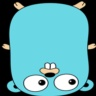
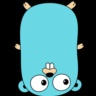
keep aspect ratio in images

diff --git a/deck_test.go b/deck_test.go
@@ -582,8 +582,7 @@ var setImageTests = []struct {
 		wantHeaders: [][]byte{
 			{0x2, 0x7, devices[StreamDeckOriginalV2].key(1, 2), 0x0, 0xf8, 0x3, 0x0, 0x0},
 			{0x2, 0x7, devices[StreamDeckOriginalV2].key(1, 2), 0x0, 0xf8, 0x3, 0x1, 0x0},
-			{0x2, 0x7, devices[StreamDeckOriginalV2].key(1, 2), 0x0, 0xf8, 0x3, 0x2, 0x0},
-			{0x2, 0x7, devices[StreamDeckOriginalV2].key(1, 2), 0x1, 0xd6, 0x1, 0x3, 0x0},
+			{0x2, 0x7, devices[StreamDeckOriginalV2].key(1, 2), 0x1, 0xae, 0x3, 0x2, 0x0},
 		},
 	},
 	{
@@ -593,8 +592,7 @@ var setImageTests = []struct {
 		wantHeaders: [][]byte{
 			{0x2, 0x7, devices[StreamDeckMK2].key(1, 2), 0x0, 0xf8, 0x3, 0x0, 0x0},
 			{0x2, 0x7, devices[StreamDeckMK2].key(1, 2), 0x0, 0xf8, 0x3, 0x1, 0x0},
-			{0x2, 0x7, devices[StreamDeckMK2].key(1, 2), 0x0, 0xf8, 0x3, 0x2, 0x0},
-			{0x2, 0x7, devices[StreamDeckMK2].key(1, 2), 0x1, 0xd6, 0x1, 0x3, 0x0},
+			{0x2, 0x7, devices[StreamDeckMK2].key(1, 2), 0x1, 0xae, 0x3, 0x2, 0x0},
 		},
 	},
 	{
@@ -606,7 +604,7 @@ var setImageTests = []struct {
 			{0x2, 0x7, devices[StreamDeckXL].key(1, 2), 0x0, 0xf8, 0x3, 0x1, 0x0},
 			{0x2, 0x7, devices[StreamDeckXL].key(1, 2), 0x0, 0xf8, 0x3, 0x2, 0x0},
 			{0x2, 0x7, devices[StreamDeckXL].key(1, 2), 0x0, 0xf8, 0x3, 0x3, 0x0},
-			{0x2, 0x7, devices[StreamDeckXL].key(1, 2), 0x1, 0x9d, 0x2, 0x4, 0x0}},
+			{0x2, 0x7, devices[StreamDeckXL].key(1, 2), 0x1, 0x1a, 0x0, 0x4, 0x0}},
 	},
 	{
 		pid: StreamDeckPedal,

diff --git a/deck.go b/deck.go
@@ -150,7 +150,7 @@ func (d *Deck) SetImage(row, col int, img image.Image) error {
 
 	if img.Bounds() != d.desc.bounds() {
 		dst := image.NewRGBA(d.desc.bounds())
-		draw.BiLinear.Scale(dst, dst.Bounds(), img, img.Bounds(), draw.Src, nil)
+		draw.BiLinear.Scale(dst, keepAspectRatio(dst, img), img, img.Bounds(), draw.Src, nil)
 		img = dst
 	}
 
@@ -176,6 +176,21 @@ func (d *Deck) SetImage(row, col int, img image.Image) error {
 		page++
 	}
 	return nil
+}
+
+func keepAspectRatio(dst, src image.Image) image.Rectangle {
+	b := dst.Bounds()
+	dx, dy := src.Bounds().Dx(), src.Bounds().Dy()
+	switch {
+	case dx < dy:
+		dx, dy = dx*b.Max.X/dy, b.Max.Y
+	case dx > dy:
+		dx, dy = b.Max.X, dy*b.Max.Y/dx
+	default:
+		return b
+	}
+	offset := image.Point{X: (b.Dx() - dx) / 2, Y: (b.Dy() - dy) / 2}
+	return image.Rectangle{Max: image.Point{X: dx, Y: dy}}.Add(offset)
 }
 
 // Serial returns the serial number of the device.
